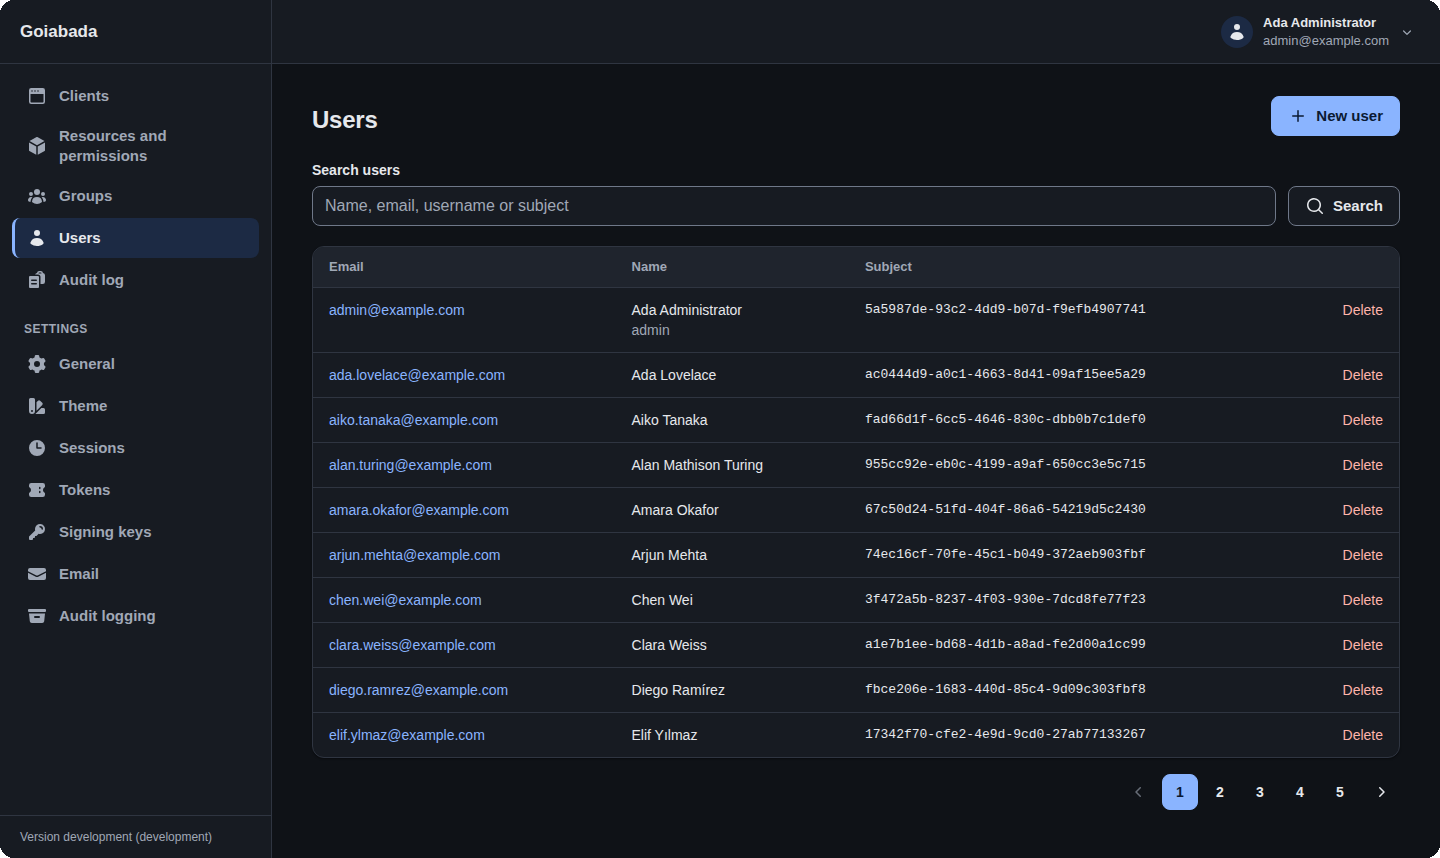
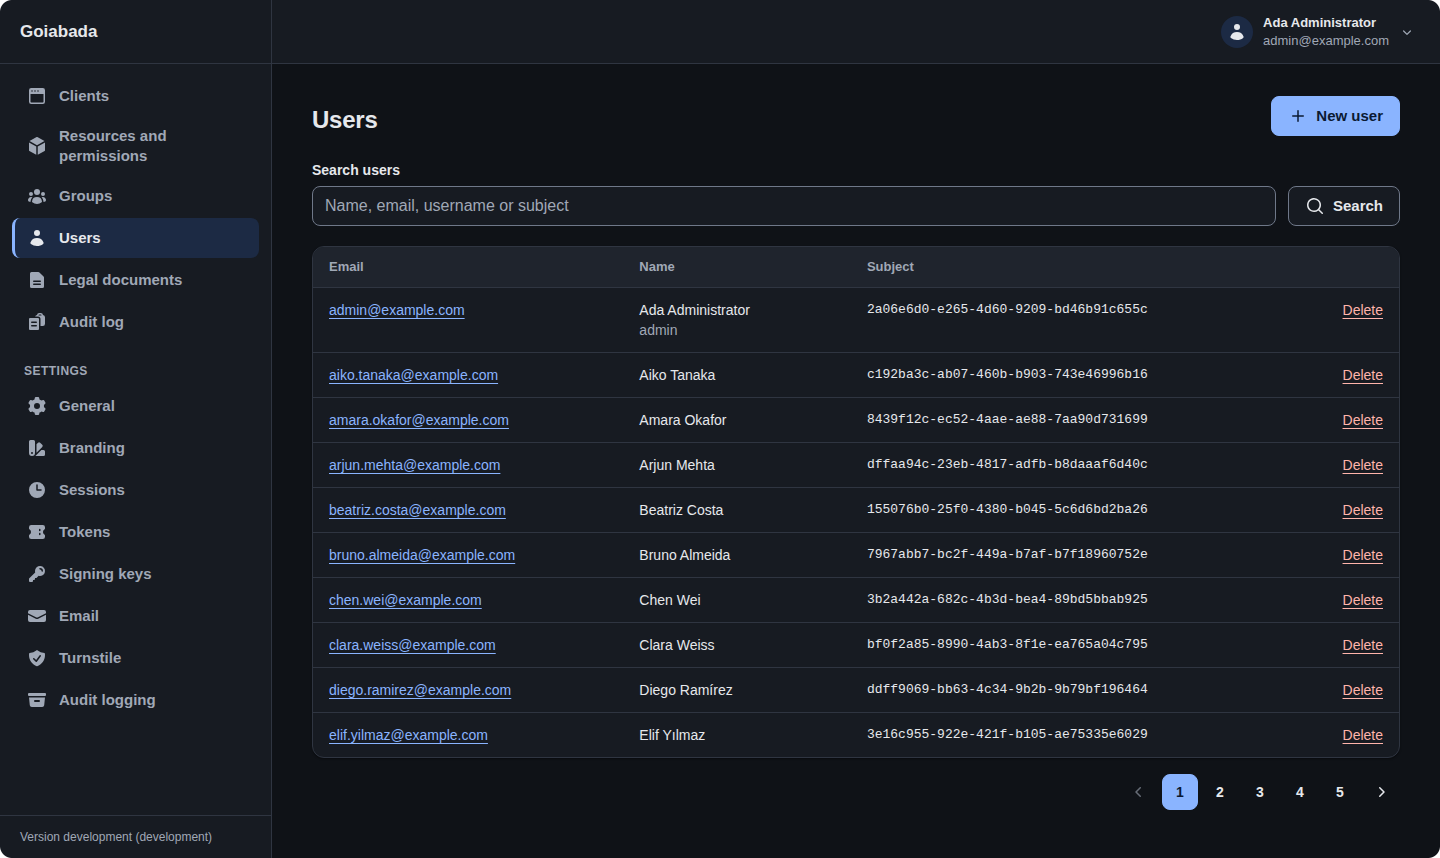
Retake the account Phone and users list screenshots with the command
e2e/screenshots.sh now writes all four images. screenshot-account-phone.png and
screenshot-users.png are retaken with it and committed.

The set-up session goes on after the email and self-registration settings. On
the administrator's own Profile and Phone pages it gives them the name "Ada
Administrator", the username admin and a Portuguese number. Through the new user
form it creates 44 invented people at example.com, listed with the administrator
in screenshots/sample.ts, which makes five pages of ten. The capture context
captures the password page, then signs in. Its header names the administrator,
since that sign-in's claims carry the name. It then captures the users list and
the Phone page.

The users list's Subject cells are drawn at random on every new database. Just
before the capture, each cell's text is replaced with the UUID sample.ts fixes
for that row's user. This happens only when every row is a sample user's and
shows a subject, and no other text changes.

Both console pages are 1440 px wide. Each is as tall as the taller of two
measures: the sidebar (its head, the menu's full scroll height and its footer),
and the page body (header and main column). Both are measured in a viewport too
short for either column to stretch. The capture checks the height: at it nothing
scrolls, and one pixel less something does. The pointer rests on a transparent
corner, and the corners are rounded to 12 px.

Placido-Run: 534-retaking-home-page-s-admin/2026-11-20T204856
[…]

diff --git a/e2e/playwright/screenshots/capture.screenshots.ts b/e2e/playwright/screenshots/capture.screenshots.ts
@@ -2,26 +2,34 @@
 // started on a new database, into SCREENSHOTS_OUT, under the names images.json lists, which the script
 // then writes over site/src/assets.
 //
-// A set-up session signs the administrator in and sets the instance up through the console's forms.
-// The images come from a browser context of their own with no session, since a browser that has one
-// never sees the password page: opening the console there lands on it, and it is captured before
-// any credentials are submitted (#534 decision 8).
+// A set-up session signs the administrator in and sets the instance up through the console's forms:
+// email sending and self-registration, the administrator's name, username and phone number, and the
+// sample users (sample.ts). The images come from a browser context of their own with no session,
+// since a browser that has one never sees the password page: opening the console there lands on it,
+// and it is captured before any credentials are submitted. The same context then signs in, so the
+// console's header draws the name the set-up session gave the administrator, and captures the users
+// list and the account Phone page (#534 decision 8).
 //
 // Each image has a fixed width and a height measured from the page (decision 9): the sign-in page is
-// 960 pixels wide, as tall as its card plus 86 pixels above and below, its corners transparent and
-// rounded to 12 pixels; the card image is the same capture cropped to the card with 30 pixels around
-// it, its corners square.
+// 960 pixels wide, as tall as its card plus 86 pixels above and below; the card image is the same
+// capture cropped to the card with 30 pixels around it, its corners square. The two console pages are
+// 1440 pixels wide, as tall as the smallest viewport that shows the whole page with nothing
+// scrolling. All but the card image have their corners transparent and rounded to 12 pixels.
+import { randomBytes } from "node:crypto";
 import { readFileSync, writeFileSync } from "node:fs";
 import path from "node:path";
 import { expect, test, type Browser, type Page } from "@playwright/test";
-import { signInAsAdmin } from "../lib/admin-console";
+import { choose, signInAsAdmin, submitNewUser } from "../lib/admin-console";
+import { submitPassword } from "../lib/browser-sign-in";
 import { env } from "../lib/environment";
 import { fillSettingsForm, saveSettings } from "../lib/settings";
 import { crop, decodePng, encodePng, roundCorners, type Pixels } from "./png";
+import { administrator, sampleUsers } from "./sample";
 
 const signInWidth = 960;
 const signInCardSpace = 86;
 const cardMargin = 30;
+const consoleWidth = 1440;
 const cornerRadius = 12;
 
 // The images the command writes, by file name: the list e2e/screenshots.sh replaces the committed
@@ -34,9 +42,13 @@ function outDir(): string {
   return out;
 }
 
-// Turns on what the sign-in page shows "Forgot your password?" and "Create an account" for: sending
-// email, through the Mailpit beside the servers, and self-registration.
+// Sets the instance up in a session of its own. Turns on what the sign-in page shows "Forgot your
+// password?" and "Create an account" for: sending email, through the Mailpit beside the servers, and
+// self-registration. Gives the administrator, which the auth server seeds with neither, a name and a
+// username on their own Profile page, and a phone number on their Phone page. Creates the sample
+// users, each with a password of this run alone, which nothing signs in with.
 async function setUp(browser: Browser) {
+  expect(env.adminEmail, "the administrator the servers seed is not the sample's").toBe(administrator.email);
   const context = await browser.newContext();
   const page = await context.newPage();
   await signInAsAdmin(page);
@@ -54,6 +66,29 @@ async function setUp(browser: Browser) {
   await page.goto(`${env.adminUrl}/admin/settings/general`);
   await fillSettingsForm(page, { selfRegistrationEnabled: true });
   await saveSettings(page);
+
+  await page.goto(`${env.adminUrl}/account/profile`);
+  await page.locator("#givenName").fill(administrator.givenName);
+  await page.locator("#familyName").fill(administrator.familyName);
+  await page.locator("#username").fill(administrator.username);
+  await page.getByRole("button", { name: "Save", exact: true }).click();
+  await expect(page.getByText("Profile saved.", { exact: true })).toBeVisible();
+
+  await page.goto(`${env.adminUrl}/account/phone`);
+  await choose(page, "phoneCountryUniqueId", administrator.phoneCountry, new RegExp(`${administrator.phoneCountry} \\(\\+\\d+\\)$`));
+  await page.locator("#phoneNumber").fill(administrator.phoneNumber);
+  await page.getByRole("button", { name: "Save", exact: true }).click();
+  await expect(page.getByText("Phone number saved.", { exact: true })).toBeVisible();
+
+  for (const user of sampleUsers) {
+    await submitNewUser(page, {
+      email: user.email,
+      givenName: user.givenName,
+      familyName: user.familyName,
+      password: randomBytes(24).toString("hex"),
+    });
+    await expect(page.getByText("User created.", { exact: true })).toBeVisible();
+  }
   await context.close();
 }
 
@@ -96,12 +131,103 @@ async function signInPage(page: Page): Promise<Map<string, Buffer>> {
   ]);
 }
 
+// Whether a console page, at the viewport it has, scrolls: its sidebar's menu, which is pinned to the
+// viewport and scrolls inside itself, or the page.
+function scrolls(page: Page): Promise<boolean> {
+  return page.evaluate(() => {
+    const nav = document.querySelector(".app-sidebar .sidebar-nav")!;
+    return nav.scrollHeight > nav.clientHeight || document.documentElement.scrollHeight > window.innerHeight;
+  });
+}
+
+// Sets a console page's viewport to its width and to the smallest height at which the whole page
+// shows with nothing scrolling: the taller of the sidebar, its head, every link of its menu and its
+// footer, and the page beside it, the header and the main column to the end of its bottom padding.
+// Both are measured in a viewport shorter than either, where neither column is stretched to fill it.
+// The height found is checked: one pixel less, something scrolls.
+async function fitConsolePage(page: Page) {
+  await page.setViewportSize({ width: consoleWidth, height: 100 });
+  const { sidebar, body } = await page.evaluate(() => {
+    const height = (selector: string) => document.querySelector(selector)!.getBoundingClientRect().height;
+    return {
+      sidebar: height(".app-sidebar .sidebar-head") + document.querySelector(".app-sidebar .sidebar-nav")!.scrollHeight + height(".app-sidebar .sidebar-foot"),
+      body: height(".app-body"),
+    };
+  });
+  const height = Math.ceil(Math.max(sidebar, body));
+  await page.setViewportSize({ width: consoleWidth, height: height - 1 });
+  expect(await scrolls(page), `the page still shows whole ${height - 1} pixels tall: the height measured is not the smallest`).toBe(true);
+  await page.setViewportSize({ width: consoleWidth, height });
+  expect(await scrolls(page), `the page scrolls ${height} pixels tall: the height measured hides part of it`).toBe(false);
+  await expect(page.locator(".app-sidebar .sidebar-foot")).toBeInViewport({ ratio: 1 });
+  // The pointer rests on a corner the rounding makes transparent, so nothing shows hovered.
+  await page.mouse.move(consoleWidth - 1, height - 1);
+}
+
+// The console's header names the administrator, as the sign-in that opened the session claimed them.
+async function expectHeaderNamesTheAdministrator(page: Page) {
+  await expect(page.locator(".app-header .user-menu-button .user-menu-name")).toHaveText(
+    `${administrator.givenName} ${administrator.familyName}`,
+  );
+}
+
+// The first page of the users list, with its paginator, each Subject cell showing the stand-in the
+// sample list fixes for the user of its row in place of the subject the auth server drew (decision
+// 2). Only the Subject cells' text is replaced, and only once every row's user is one of the sample.
+async function usersList(page: Page): Promise<Buffer> {
+  await page.goto(`${env.adminUrl}/admin/users`);
+  await expectHeaderNamesTheAdministrator(page);
+  await expect(page.getByRole("navigation", { name: "Pagination" })).toBeVisible();
+
+  const standIns = Object.fromEntries([administrator, ...sampleUsers].map((user) => [user.email, user.subject]));
+  const table = page.locator("#usersTable");
+  const unknown = await table.evaluate((element, standIns) => {
+    const table = element as HTMLTableElement;
+    const column = [...table.tHead!.rows[0].cells].findIndex((cell) => cell.textContent!.trim() === "Subject");
+    if (column < 0) return ["(no Subject column)"];
+    const rows = [...table.tBodies[0].rows].map((row) => ({
+      email: row.cells[0].querySelector("a")?.textContent!.trim() ?? "",
+      subject: row.cells[column],
+    }));
+    const unknown = rows.filter((row) => !(row.email in standIns) || !/^[0-9a-f]{8}(-[0-9a-f]{4}){3}-[0-9a-f]{12}$/.test(row.subject.textContent!.trim()));
+    if (unknown.length > 0) return unknown.map((row) => `${row.email}: ${row.subject.textContent!.trim()}`);
+    for (const row of rows) row.subject.textContent = standIns[row.email];
+    return [];
+  }, standIns);
+  expect(unknown, "rows of the users list that are not a sample user's with a subject").toEqual([]);
+
+  const rows = table.locator("tbody tr");
+  await expect(rows).toHaveCount(10);
+  for (const row of await rows.all()) {
+    const email = (await row.locator("td").first().locator("a").innerText()).trim();
+    await expect(row.locator("td.cell-mono")).toHaveText(standIns[email]);
+  }
+
+  await fitConsolePage(page);
+  return encodePng(roundCorners(await capture(page), cornerRadius), { alpha: true });
+}
+
+// The administrator's own Phone page, with the number the set-up session saved.
+async function accountPhone(page: Page): Promise<Buffer> {
+  await page.goto(`${env.adminUrl}/account/phone`);
+  await expectHeaderNamesTheAdministrator(page);
+  await expect(page.getByRole("combobox", { name: "Country" })).toHaveValue(new RegExp(`${administrator.phoneCountry} \\(\\+\\d+\\)$`));
+  await expect(page.locator("#phoneNumber")).toHaveValue(administrator.phoneNumber);
+
+  await fitConsolePage(page);
+  return encodePng(roundCorners(await capture(page), cornerRadius), { alpha: true });
+}
+
 test("the screenshots", async ({ browser }) => {
   await setUp(browser);
 
   const context = await browser.newContext({ viewport: { width: signInWidth, height: 1000 } });
   const page = await context.newPage();
   const images = await signInPage(page);
+  await submitPassword(page, env.adminEmail, env.adminPassword);
+  await page.waitForURL(`${env.adminUrl}/admin/users`);
+  images.set("screenshot-users.png", await usersList(page));
+  images.set("screenshot-account-phone.png", await accountPhone(page));
   await context.close();
 
   expect([...images.keys()].sort(), "the images captured are not the ones images.json lists").toEqual([...listed].sort());

diff --git a/e2e/playwright/screenshots/sample.ts b/e2e/playwright/screenshots/sample.ts
@@ -1,0 +1,76 @@
+// The sample data the screenshots show: invented people at example.com, made on the command's new
+// database through the admin console's forms, never written into it (#534).
+//
+// Each person's subject is a stand-in, fixed here. The auth server draws a random subject for every
+// user it creates, the first administrator's included, so the users list differs on every new
+// database; the capture writes these over the Subject cells of the users list just before it is
+// captured, and alters no other text (decision 2).
+
+export interface SampleUser {
+  email: string;
+  givenName: string;
+  familyName: string;
+  subject: string;
+}
+
+// The administrator the auth server seeds, which has no name and no username until the set-up
+// session gives it them, with a Portuguese phone number for the Phone page.
+export const administrator = {
+  email: "admin@example.com",
+  givenName: "Ada",
+  familyName: "Administrator",
+  username: "admin",
+  subject: "2a06e6d0-e265-4d60-9209-bd46b91c655c",
+  phoneCountry: "Portugal",
+  phoneNumber: "912 345 678",
+} as const;
+
+// Enough people for the users list to draw its paginator: with the administrator, five pages of ten.
+// The list is sorted by given name, so its first page shows the administrator and the nine given
+// names that come first.
+export const sampleUsers: readonly SampleUser[] = [
+  { email: "aiko.tanaka@example.com", givenName: "Aiko", familyName: "Tanaka", subject: "c192ba3c-ab07-460b-b903-743e46996b16" },
+  { email: "amara.okafor@example.com", givenName: "Amara", familyName: "Okafor", subject: "8439f12c-ec52-4aae-ae88-7aa90d731699" },
+  { email: "arjun.mehta@example.com", givenName: "Arjun", familyName: "Mehta", subject: "dffaa94c-23eb-4817-adfb-b8daaaf6d40c" },
+  { email: "beatriz.costa@example.com", givenName: "Beatriz", familyName: "Costa", subject: "155076b0-25f0-4380-b045-5c6d6bd2ba26" },
+  { email: "bruno.almeida@example.com", givenName: "Bruno", familyName: "Almeida", subject: "7967abb7-bc2f-449a-b7af-b7f18960752e" },
+  { email: "chen.wei@example.com", givenName: "Chen", familyName: "Wei", subject: "3b2a442a-682c-4b3d-bea4-89bd5bbab925" },
+  { email: "clara.weiss@example.com", givenName: "Clara", familyName: "Weiss", subject: "bf0f2a85-8990-4ab3-8f1e-ea765a04c795" },
+  { email: "diego.ramirez@example.com", givenName: "Diego", familyName: "Ramírez", subject: "ddff9069-bb63-4c34-9b2b-9b79bf196464" },
+  { email: "elif.yilmaz@example.com", givenName: "Elif", familyName: "Yılmaz", subject: "3e16c955-922e-421f-b105-ae75335e6029" },
+  { email: "emma.lindqvist@example.com", givenName: "Emma", familyName: "Lindqvist", subject: "746c5677-6696-4ec2-a027-751d7f3e2fc8" },
+  { email: "fatima.haddad@example.com", givenName: "Fatima", familyName: "Haddad", subject: "6e29c3a8-4b2f-446a-a163-9e0a71343a74" },
+  { email: "felix.brandt@example.com", givenName: "Felix", familyName: "Brandt", subject: "46e94083-9075-4aea-b537-9e9c75a16973" },
+  { email: "grace.mensah@example.com", givenName: "Grace", familyName: "Mensah", subject: "b0b1b2ab-2158-41eb-9022-e6a0e4fd393d" },
+  { email: "hana.novak@example.com", givenName: "Hana", familyName: "Novák", subject: "292c527f-d145-4513-ade0-a77906b989de" },
+  { email: "hiroshi.sato@example.com", givenName: "Hiroshi", familyName: "Sato", subject: "080c140d-dc1d-4518-add7-eb2043e7a6de" },
+  { email: "ines.moreau@example.com", givenName: "Inès", familyName: "Moreau", subject: "15962572-1916-4c0f-88b3-e0b517aa0105" },
+  { email: "ivan.petrov@example.com", givenName: "Ivan", familyName: "Petrov", subject: "44aa653f-f8e5-4b4b-8652-941184a50093" },
+  { email: "jonas.berg@example.com", givenName: "Jonas", familyName: "Berg", subject: "6e200341-e3b5-4461-9f9a-9129512fd805" },
+  { email: "julia.kowalska@example.com", givenName: "Julia", familyName: "Kowalska", subject: "81e0c7c4-2716-40e8-b862-0985c21698d9" },
+  { email: "kai.nakamura@example.com", givenName: "Kai", familyName: "Nakamura", subject: "65f55781-36b9-4658-af79-6dcea57b5076" },
+  { email: "kofi.asante@example.com", givenName: "Kofi", familyName: "Asante", subject: "d840b27c-ff73-499b-aade-a261f8361b41" },
+  { email: "laila.rahimi@example.com", givenName: "Laila", familyName: "Rahimi", subject: "293be8d3-58d2-4e3a-884e-e4fffd7e5555" },
+  { email: "lucas.ferreira@example.com", givenName: "Lucas", familyName: "Ferreira", subject: "2750c19a-805c-4d50-b605-7c8db765cc44" },
+  { email: "maya.cohen@example.com", givenName: "Maya", familyName: "Cohen", subject: "02f6dc02-7321-4965-9f6e-5c2ceaaf3ddf" },
+  { email: "mateo.silva@example.com", givenName: "Mateo", familyName: "Silva", subject: "22fb3b2c-d802-46b1-a674-2360d26bf0b6" },
+  { email: "nadia.popescu@example.com", givenName: "Nadia", familyName: "Popescu", subject: "ce5cc6ac-a86f-4707-ad00-1ac5de3c01d1" },
+  { email: "noah.fischer@example.com", givenName: "Noah", familyName: "Fischer", subject: "d3229da7-5a29-42c6-994b-507621150cf0" },
+  { email: "olga.ivanova@example.com", givenName: "Olga", familyName: "Ivanova", subject: "373b44c1-d24c-4c75-a0a9-9834a59c87b5" },
+  { email: "omar.farouk@example.com", givenName: "Omar", familyName: "Farouk", subject: "088c91b4-cb50-4157-baad-392524ad5906" },
+  { email: "priya.nair@example.com", givenName: "Priya", familyName: "Nair", subject: "e6f8939f-300c-44ab-835f-b8808a6b9e6f" },
+  { email: "rafael.ortiz@example.com", givenName: "Rafael", familyName: "Ortiz", subject: "2b399665-ea4b-46bf-8fd1-7793b719c730" },
+  { email: "rosa.delgado@example.com", givenName: "Rosa", familyName: "Delgado", subject: "a02c3877-c60a-4c91-9c4f-cdd83a6ae5d3" },
+  { email: "samuel.adeyemi@example.com", givenName: "Samuel", familyName: "Adeyemi", subject: "1afb0034-2077-4a49-aa38-738b21b979a5" },
+  { email: "sofia.rossi@example.com", givenName: "Sofia", familyName: "Rossi", subject: "08f8fec6-6a81-4a9b-bad3-7f181909d0f3" },
+  { email: "tariq.hassan@example.com", givenName: "Tariq", familyName: "Hassan", subject: "bc08b1c4-79e1-46bd-816d-bd645dedb5d8" },
+  { email: "thea.johansson@example.com", givenName: "Thea", familyName: "Johansson", subject: "0ef5f546-b3da-4912-9d20-330ae73b3f36" },
+  { email: "uma.krishnan@example.com", givenName: "Uma", familyName: "Krishnan", subject: "52620c20-d0d5-458b-8540-8bd714610b11" },
+  { email: "victor.dubois@example.com", givenName: "Victor", familyName: "Dubois", subject: "06121211-1ec7-4fb9-8297-fb40683abac9" },
+  { email: "wanjiru.kamau@example.com", givenName: "Wanjiru", familyName: "Kamau", subject: "48b1883a-f3b8-420f-a704-974bb270ba78" },
+  { email: "xavier.laurent@example.com", givenName: "Xavier", familyName: "Laurent", subject: "93d0a1d9-1f16-4b76-a3d7-baba0b4bfd95" },
+  { email: "yara.nassar@example.com", givenName: "Yara", familyName: "Nassar", subject: "5b8fadbf-f807-465d-9f2f-c039f267ff48" },
+  { email: "yusuf.demir@example.com", givenName: "Yusuf", familyName: "Demir", subject: "882ff41b-4074-4280-8693-9cba0ea77d16" },
+  { email: "zainab.bello@example.com", givenName: "Zainab", familyName: "Bello", subject: "e6dc99ff-ea6b-44d2-b5ba-19b1ae49e024" },
+  { email: "zoe.martin@example.com", givenName: "Zoe", familyName: "Martin", subject: "77d3b7c4-6509-4c1b-9350-2ce07e43d5f9" },
+];
